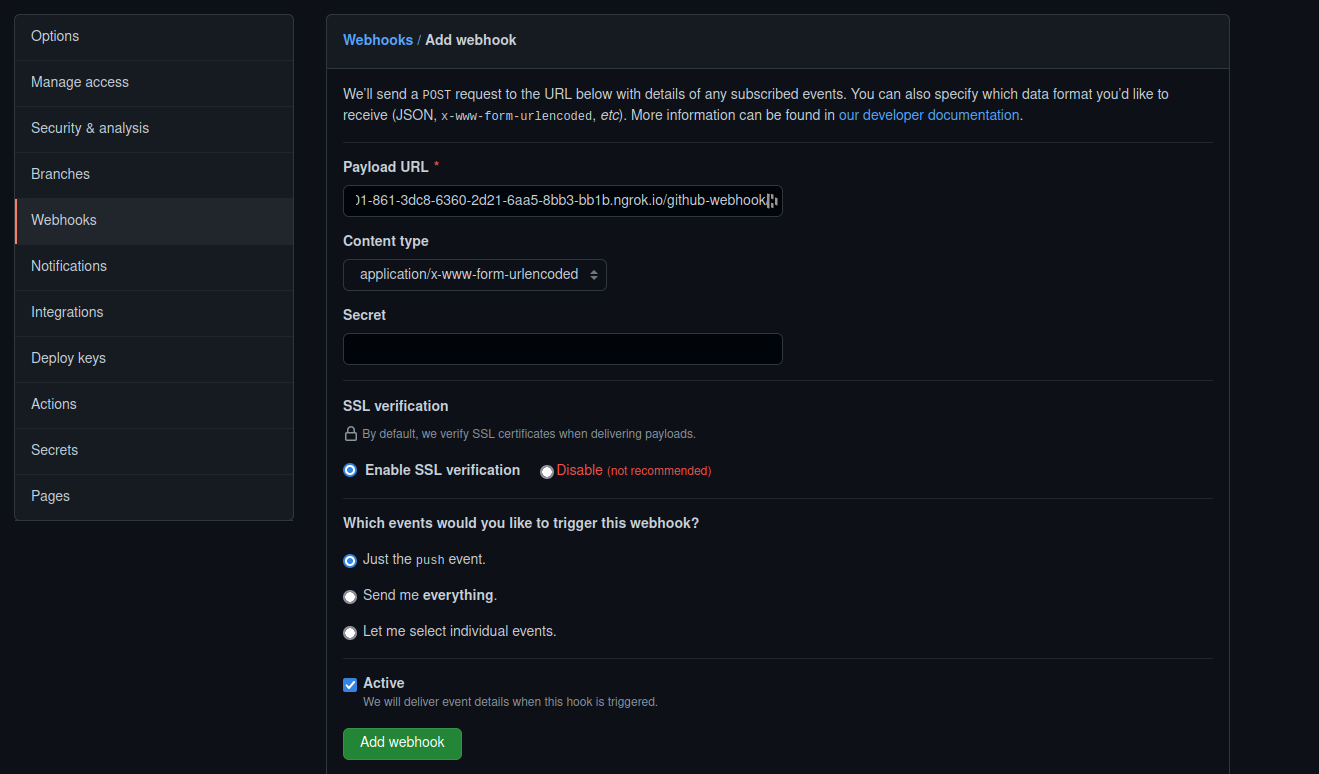
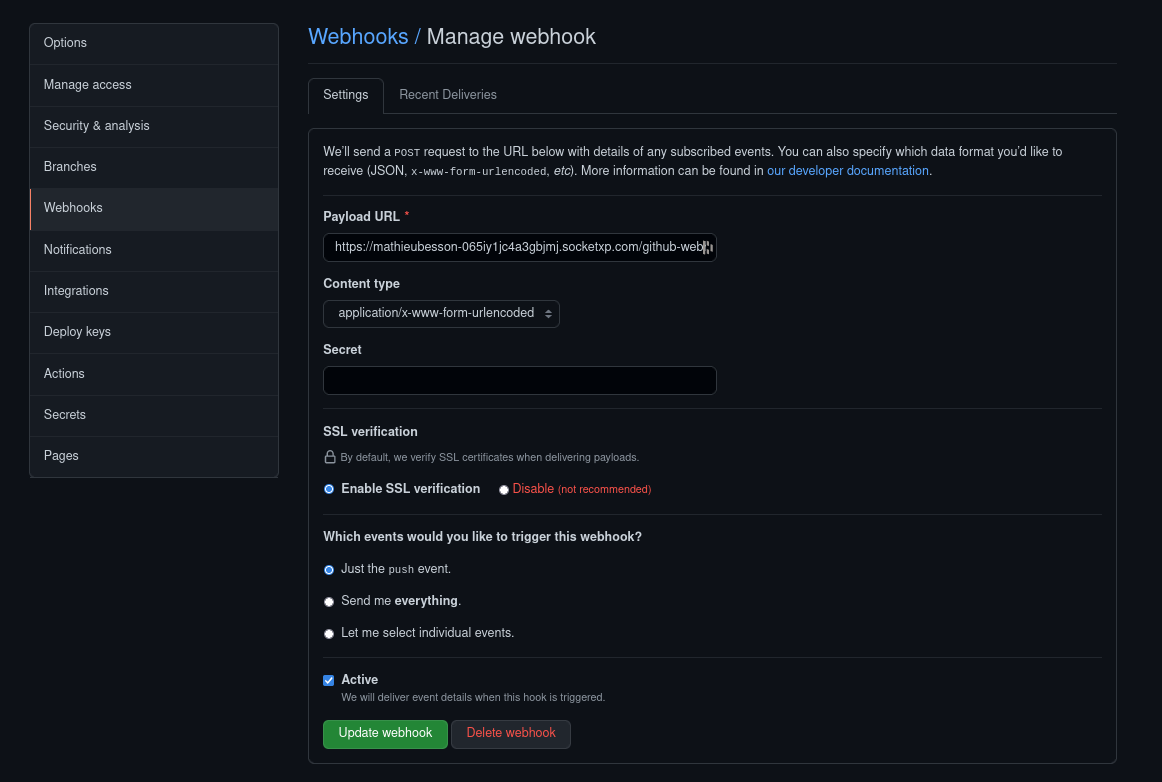
Add Jenkins_acces_depuis_VM procédure

diff --git a/procedures/jenkins_acces_depuis_VM.md b/procedures/jenkins_acces_depuis_VM.md
@@ -1,0 +1,81 @@
+# Accèder à Jenkins sur une VM depuis une machine hôte
+
+## Configuration de VirtualBox 
+- Configurer dans VirtualBox le bind des ports : (de la machine hôte vers la VM) de manière à ce que celle-ci soit accessible depuis la machine hote. 
+
+![[virtualbox-binding-ports.png]]
+
+|   | Hôte : 127.0.0.1       | VM : 10.0.2.15|
+| :--------------- |:---------------:| :-----:|
+| Web  |   :8080        |  :80 |
+| Jenkins  | :8081             |   :8080 |
+
+
+## Lancement de Jenkins 
+- Après avoi effectué l'installation de Jenkins sur la VM (cf procedure/jenkins_installation.md)
+- Lancer l'URL [127.0.0.1:8081](127.0.0.1:8081) pour accèder à Jenkins sur votre VM 
+
+```shell
+# Lancer Jenkins si besoin 
+sudo systemctl start jenkins
+```
+
+```shell
+# Récupérer le mot de passe admin puis copier le dans le champs de formulaire Jenkins
+cat /var/lib/jenkins/secrets/initialAdminPassword
+```
+
+- Installer les plugins suggérés par Jenkins 
+
+## Installation d'un reverse proxy pour accèder à la machine hôte depuis l'extérieur
+L'objectif est de pourvoir accèder à [127.0.0.1:8081](127.0.0.1:8081) de manière à pouvoir atteindre la machine hôte depuis l'extérieur (ici avec [socketxp.com](https://www.socketxp.com) => url fix pendant 30 jours)
+- Créer un compte sur [socketxp.com](https://www.socketxp.com) 
+- Téléchargement et installation du proxy 
+
+```shell
+curl -O https://portal.socketxp.com/download/linux32/socketxp 
+&& chmod +wx socketxp && sudo mv socketxp /usr/local/bin
+```
+
+- Authentification de la machine hôte
+```shell
+socketxp login "your_token"
+```
+- Le token d'authentification est trouvable dans le dashboard de SocketXP : [socketxp.com -> Dashboard -> authtoken](https://portal.socketxp.com/#/authtoken)
+
+![[socketXP-authentification.png]]
+
+-  Création du tunnel sécurisé  pour binder l'url https://xxxxxxx.socketxp.com sur -> http://127.0.0.1:8081
+```shell
+socketxp connect http://127.0.0.1:8081
+
+# Output: 
+Connected to SocketXP Cloud Gateway.  
+Public URL -> https://test-user-a29dfe42e3.socketxp.com
+```
+
+
+## Création du Webhook github 
+- Ajout du webhook sur github : Aller dans Settings-> webhooks -> Ajouter un webhook, puis saisir l'url du proxy + /github-webhook/
+
+![[github-webhook.png]]
+
+## Création de la connexion ssh entre jenkins et github 
+- Changement d'utilisateur unix 
+
+```shell
+sudo -su jenkins
+```
+
+```shell
+# Génération d'une paire de clé ssh sur la machine hote 
+ssh-keygen
+```
+
+- Récupération de la clé public : id_rsa.pub 
+```shell
+cat ~/.ssh/id_rsa.pub
+```
+
+- Ajout de la clé dans Github : Settings -> Deploy keys -> Add deploy key 
+![[github-ssh-key.png]]

diff --git a/procedures/jenkins_installation.md b/procedures/jenkins_installation.md
@@ -1,0 +1,80 @@
+# Procédure d'installation de Jenkins 
+
+## Prérequis 
+- Installation d'une VM Ubuntu à l'aide de VirtualBox
+- Lancement de l'installation de  l'iso disponible ici : https://ubuntu.com/download/desktop
+- Jenkins nécéssite l' [installation de Java](https://ubuntu.com/download/desktop) :
+```shell
+apt install openjdk-11-jdk
+```
+
+## Installation de [Jenkins](https://www.jenkins.io/doc/book/installing/linux/) sous Ubuntu 
+
+- Ajout de la clé du référentiel au système : 
+```shell
+wget -q -O - https://pkg.jenkins.io/debian-stable/jenkins.io.key | sudo apt-key add -
+```
+  
+   - Ajout de l'adresse du référentiel Debian sur la sources.list du serveur : 
+```shell
+sudo sh -c 'echo deb http://pkg.jenkins.io/debian-stable binary/ > /etc/apt/sources.list.d/jenkins.list'
+```
+
+   - Une fois les deux commandes saisies, nous exécuterons la update afin que apt utilise le nouveau référentiel.
+```shell
+sudo apt update
+```
+
+   - Installation de Jenkins et ses dépendances.
+```bash
+sudo apt install jenkins
+```
+
+   - Démarrrage de Jenkins
+```shell
+sudo systemctl start jenkins
+```
+		
+   - On vérifie que Jenkins est bien démarré
+```shell
+sudo systemctl status jenkins
+```
+		
+		
+## Configuration du par feu
+   - On ouvre le par-feu sur le port que va utiliser Jenkins :8080
+```shell
+sudo ufw allow 8080
+```
+		
+   - Si le par feu est inactif : (autorisation de OpenSSH + activation du par feu)
+```shell
+sudo ufw allow OpenSSH
+sudo ufw enable
+```
+
+   - Vérification des nouvelles règles du par feu 
+```shell
+sudo ufw status
+```
+		
+## Authentification sur Jenkins 
+   - Aller à l'adresse suivante pour utiliser Jenkins  : 
+```shell
+http://your_server_ip_or_domain:8080
+## 127.0.0.1:8080 ou localhost:8080
+```
+		
+   - Récupérer le mot de passe admin généré par Jenkins : 
+```shell
+sudo cat /var/lib/jenkins/secrets/initialAdminPassword
+```
+		
+   - Copier le mdp dans le champs de formulaire de l'adresse suivante, puis cliquer sur installer les plugins par défaut. 
+```shell
+http://your_server_ip_or_domain:8080
+```
+		
+   - Suivre le reste des indications sur l'interface web 
+
+

diff --git a/README.md b/README.md
@@ -4,7 +4,7 @@
 Ce projet a été créer dans le cadre de notre formation à MDS (MyDigitalSchool Rennes), plus particulièrement dans le cours de **Qualité logiciel & tests**.
 
 ## Objectifs 
-### Objectif 1
+### Objectif 1 : Pipeline d'integration continue 
 L'objectif est de créer une pipeline d'intégration continue (CI/CD) à l'aide de :
 
 - [Jenkins](https://www.jenkins.io/) permettant le lancement d'une série d'instructions visant au contrôle du code source livré par l'équipe de développement (automatisation des tests unitaire)
@@ -12,7 +12,7 @@ L'objectif est de créer une pipeline d'intégration continue (CI/CD) à l'aide 
 - [Github](https://github.com) plateforme en ligne permettant l'hébergement et le versionning du code source produit
 
 
-### Objectif 2
+### Objectif 2 : Création d'un mini site web (connexion) et des test associés  
 Lié au première objectif le deuxième est de créer un site web simple contenant : 
 
 - Une page de connexion contenant
@@ -29,7 +29,13 @@ Lié au première objectif le deuxième est de créer un site web simple contena
 
 L'objectif principal final étant qu'à chaque commit sur le dépôt Github d'un des membres de l'équipe de développement Jenkins déclenche le lancement des tests ainsi que le contrôle de qualité de code par SonarQube.
 
+### Procédure de mise en place de l'environnement de test 
+Les fichiers de procédure sont à retrouver dans le dossier /procedures
+- **#1** Procédure d'installation de Jenkins -> jenkins_installation.md
+- **#2** Accèder à Jenkins sur une VM depuis une machine hôte -> jenkins_acces_depuis_VM
+- **#3** Configuration de Jenkins pour le lancement de test automatisés -> jenkins_configuration
+
 ### Les contributeurs 
 
-- [Mathieu Besson](https://github.com/MathieuBesson/) B3 Développement Web MDS
 - [Malo Gerard](https://github.com/MaloGerardMDS) B3 Développement Web MDS
+- [Mathieu Besson](https://github.com/MathieuBesson/) B3 Développement Web MDS

diff --git a/procedures/liens_ressources.md b/procedures/liens_ressources.md
@@ -1,0 +1,24 @@
+# Lien des ressoources utilisés 
+
+
+## Jenkins : 
+
+- https://www.youtube.com/watch?v=AXlN-f6Uk64&list=PLzvRQMJ9HDiSaisKr7OnM4Fl7JXCDDcmt&index=2
+- https://medium.com/dev-blogs/configuring-jenkins-with-github-eef13a5cc9e9
+- https://www.youtube.com/watch?v=8IYtL8TDVL0
+- https://dev.to/errietta/making-jenkins-and-github-actually-integrate-with-each-other-4kgk
+- https://medium.com/@developerwakeling/setting-up-github-webhooks-jenkins-and-ngrok-for-local-development-f4b2c1ab5b6
+- https://devops4solutions.medium.com/jenkins-setup-for-php-unit-testing-on-aws-c39baad7a99e
+- https://medium.com/@developerwakeling/setting-up-github-webhooks-jenkins-and-ngrok-for-local-development-f4b2c1ab5b6
+
+
+## SonarQube : 
+
+- https://directdevops.blog/2021/07/30/installing-sonarqube-8-9-lts-on-ubuntu/
+- https://developerinsider.co/install-sonarqube-on-ubuntu/
+- https://doc.ubuntu-fr.org/sonar
+- https://www.vultr.com/docs/install-sonarqube-on-ubuntu-20-04-lts
+
+## Nginx
+
+- https://serverfault.com/questions/424452/nginx-enable-site-command

diff --git a/procedures/jenkins_configuration.md b/procedures/jenkins_configuration.md
@@ -1,0 +1,13 @@
+# Configuration de Jenkins pour le lancement de test automatisés 
+- Retourner sur Jenkins [127.0.0.1:8081](127.0.0.1:8081) et lancer un Nouvelle item -> Construire un projet free-style 
+
+- Ajouter l'url ssh de votre dépôt distant 
+![[jenkins-configuration.png]]
+
+
+- Ajouter le lien vers les test unitaires 
+https://devops4solutions.medium.com/jenkins-setup-for-php-unit-testing-on-aws-c39baad7a99e
+
+```shell
+/usr/local/bin/phpunit — log-junit test.xml -c phpunit.xml .
+```
